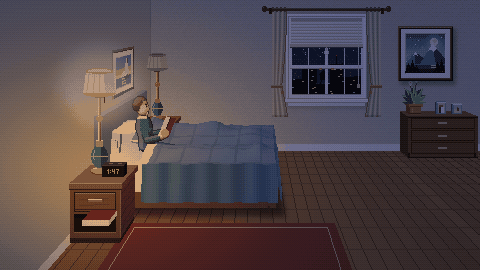
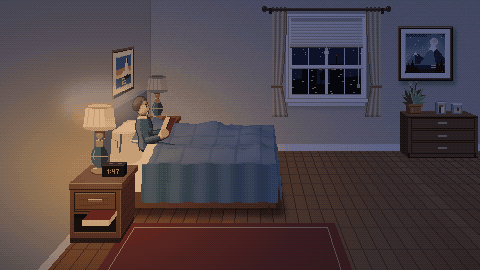
Shorten the bedroom's nightstand lamps

diff --git a/tools/art/act2_rooms.py b/tools/art/act2_rooms.py
@@ -1749,6 +1749,7 @@ def _bedroom_nightstand(img, d, R, WX, z0, z1, cols, seed):
 def _bedroom_lamp(img, d, base, k, lit):
     """A table lamp: brass foot, a glazed urn, brass stem with a knuckle and switch, and a pleated drum shade."""
     x, y = base
+    top = y + 22 * k  # the stem is short: everything above the urn's collar is lowered by this much
     brass, brass_d, brass_l = hx("a88a44"), hx("5e4a24"), hx("ecd48e")
     d.ellipse([x - 6 * k, y - 2 * k, x + 6 * k, y + 2 * k], fill=brass_d)
     d.ellipse([x - 5 * k, y - 3 * k, x + 5 * k, y + 1 * k], fill=brass)
@@ -1760,30 +1761,30 @@ def _bedroom_lamp(img, d, base, k, lit):
     d.line([(x - 5 * k, y - 10 * k), (x + 5 * k, y - 10 * k)], fill=hx("c8b070"))
     d.rectangle([x - 2 * k, y - 20 * k, x + 2 * k, y - 16 * k], fill=brass)
     d.line([(x - 2 * k, y - 20 * k), (x + 2 * k, y - 20 * k)], fill=brass_l)
-    d.rectangle([x - 1, y - 48 * k, x + 1, y - 20 * k], fill=brass)
-    d.line([(x - 1, y - 48 * k), (x - 1, y - 20 * k)], fill=brass_l)
-    d.line([(x + 1, y - 48 * k), (x + 1, y - 20 * k)], fill=brass_d)
-    d.ellipse([x - 2 * k, y - 36 * k, x + 2 * k, y - 32 * k], fill=brass)
-    d.point((x - 1, y - 35 * k), fill=brass_l)
-    d.rectangle([x - 2.5 * k, y - 52 * k, x + 2.5 * k, y - 47 * k], fill=brass_d)
-    d.line([(x + 2.5 * k, y - 49 * k), (x + 4.5 * k, y - 49 * k)], fill=brass)
+    d.rectangle([x - 1, top - 48 * k, x + 1, y - 20 * k], fill=brass)
+    d.line([(x - 1, top - 48 * k), (x - 1, y - 20 * k)], fill=brass_l)
+    d.line([(x + 1, top - 48 * k), (x + 1, y - 20 * k)], fill=brass_d)
+    d.ellipse([x - 2 * k, y - 25 * k, x + 2 * k, y - 21 * k], fill=brass)
+    d.point((x - 1, y - 24 * k), fill=brass_l)
+    d.rectangle([x - 2.5 * k, top - 52 * k, x + 2.5 * k, top - 47 * k], fill=brass_d)
+    d.line([(x + 2.5 * k, top - 49 * k), (x + 4.5 * k, top - 49 * k)], fill=brass)
     if lit:  # painted bright so the night grade leaves it glowing warm
-        light(img, "ellipse", [x - 26 * k, y - 80 * k, x + 26 * k, y - 30 * k], hx("fff4d0"), 0.5, 8)
-        d.line([(x + 3 * k, y - 49 * k), (x + 3 * k, y - 44 * k)], fill=brass_d)
-        d.point((x + 3 * k, y - 43 * k), fill=brass_l)
+        light(img, "ellipse", [x - 26 * k, top - 80 * k, x + 26 * k, y - 30 * k], hx("fff4d0"), 0.5, 8)
+        d.line([(x + 3 * k, top - 49 * k), (x + 3 * k, top - 44 * k)], fill=brass_d)
+        d.point((x + 3 * k, top - 43 * k), fill=brass_l)
     body, pleat, rim, inside = ((hx("fffff0"), hx("efe2bc"), hx("e8c080"), hx("fff8d8")) if lit else
                                 (hx("c8bca4"), hx("a89c84"), hx("8a7e68"), hx("6a604e")))
-    shade = [(x - 10 * k, y - 50 * k), (x + 10 * k, y - 50 * k), (x + 8 * k, y - 64 * k), (x - 8 * k, y - 64 * k)]
+    shade = [(x - 10 * k, top - 50 * k), (x + 10 * k, top - 50 * k), (x + 8 * k, top - 64 * k), (x - 8 * k, top - 64 * k)]
     d.polygon(shade, fill=body)
     for i in range(1, 10):
         t = i / 10
         if i % 2:
-            d.line([(x - 10 * k + 20 * k * t, y - 50 * k), (x - 8 * k + 16 * k * t, y - 64 * k)], fill=pleat)
-    d.polygon([(x + 4 * k, y - 50 * k), (x + 10 * k, y - 50 * k), (x + 8 * k, y - 64 * k), (x + 3 * k, y - 64 * k)],
+            d.line([(x - 10 * k + 20 * k * t, top - 50 * k), (x - 8 * k + 16 * k * t, top - 64 * k)], fill=pleat)
+    d.polygon([(x + 4 * k, top - 50 * k), (x + 10 * k, top - 50 * k), (x + 8 * k, top - 64 * k), (x + 3 * k, top - 64 * k)],
               fill=mul(body, 0.9))
-    d.ellipse([x - 8 * k, y - 65.5 * k, x + 8 * k, y - 62.5 * k], fill=inside, outline=rim)
-    d.chord([x - 10 * k, y - 52 * k, x + 10 * k, y - 48 * k], 0, 180, fill=rim)
-    d.line([(x - 8 * k, y - 63 * k), (x + 8 * k, y - 63 * k)], fill=rim)
+    d.ellipse([x - 8 * k, top - 65.5 * k, x + 8 * k, top - 62.5 * k], fill=inside, outline=rim)
+    d.chord([x - 10 * k, top - 52 * k, x + 10 * k, top - 48 * k], 0, 180, fill=rim)
+    d.line([(x - 8 * k, top - 63 * k), (x + 8 * k, top - 63 * k)], fill=rim)
 
 
 def paint_bedroom():
